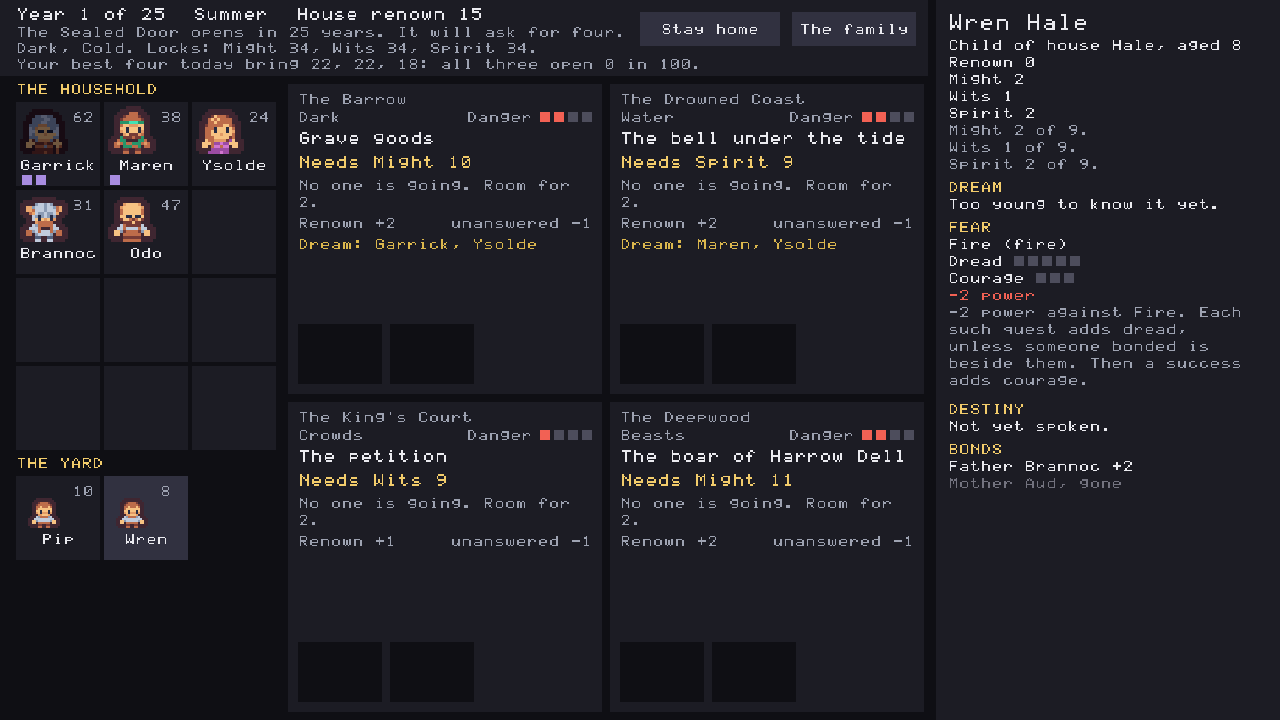
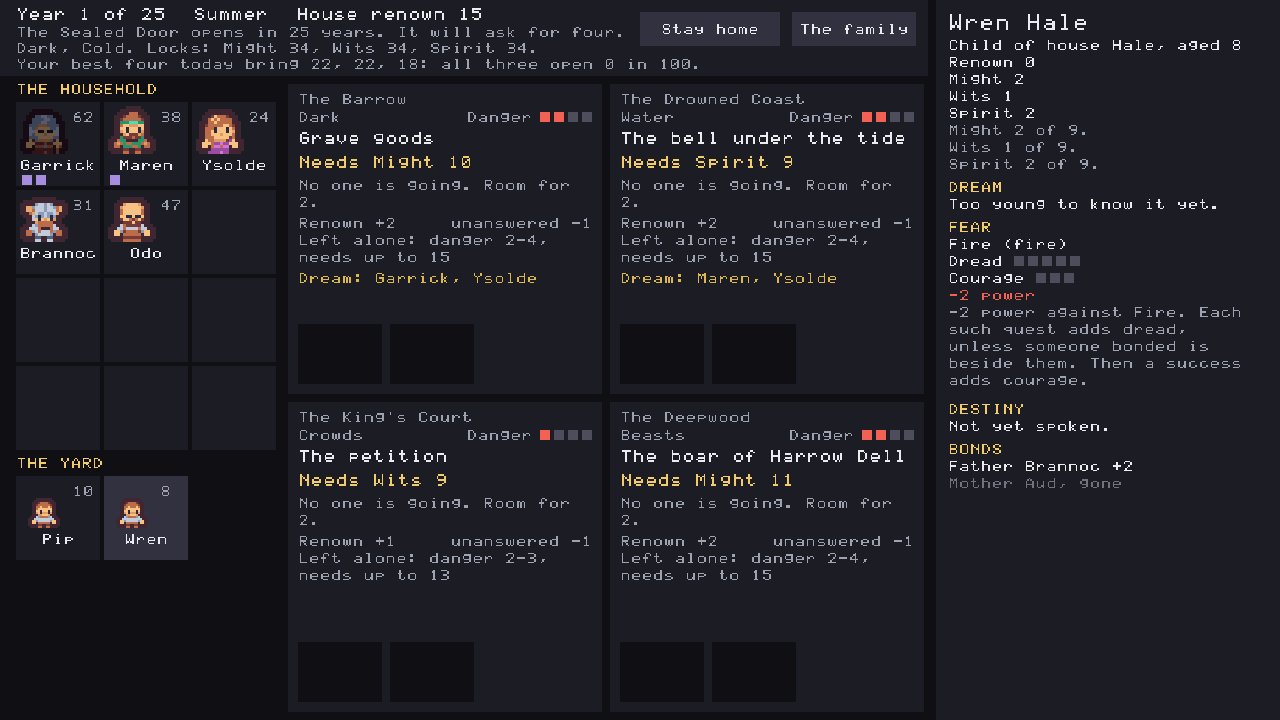
yakin(keifu-fixes): pictures re-taken, plus foresight and telegraph
Claude-Session: https://claude.ai/code/session_01NDjvEA2E8YNRhwA6ZsXpJu

diff --git a/games/keifu/src/capture.rs b/games/keifu/src/capture.rs
@@ -10,7 +10,8 @@
 //! previewing them both with his sheet in the dock; the quest sheet once both are
 //! seated; the staged worst case and its sheet. Then the sheet dock's own: idle,
 //! holding the help over year 1's full board, and Garrick's sheet scrolled to its end;
-//! and W5's staged ghost: "Lay Garrick's ghost" on a year-2 board. Then W6's telling:
+//! and W5's staged ghost: "Lay Garrick's ghost" on a year-2 board; then the foresight (the
+//! idle dock under year 1's seating) and the telegraph (a year-2 card and its sheet's end). Then W6's telling:
 //! the stay-home Meanwhile, a story half typed, the played page whole, a forging (the
 //! cradle-ring, with Garrick's sheet in the dock), and the closed house's verdict. Then
 //! W7's: Odo held over Pip's bench with the "+1 Spirit" preview, the played winter's
@@ -70,6 +71,8 @@ pub fn capture_all(checks: &mut Checks) -> Vec<String> {
         (&[][..], "keifu-dock-idle.png"),
         (&["Garrick", "end"][..], "keifu-dock-scrolled.png"),
         (&["w5-ghost"][..], "keifu-w5-ghost.png"),
+        (&["foresight"][..], "keifu-foresight.png"),
+        (&["telegraph"][..], "keifu-telegraph.png"),
         (&["w6-stay"][..], "keifu-w6-stay-home.png"),
         (&["w6-typing"][..], "keifu-w6-typing.png"),
         (&["w6-page"][..], "keifu-w6-page.png"),
@@ -205,6 +208,15 @@ pub fn capture_all(checks: &mut Checks) -> Vec<String> {
                 point_at(&mut sim, Target::Leaf(0), true);
             } else if *name == "w5-ghost" {
                 crate::w5::stage_ghost_board(&mut sim);
+            } else if *name == "foresight" {
+                // Garrick and Brannoc on Grave goods; the pointer at rest, so the dock is idle.
+                let _ = crate::w4::seat_the_oracle(&mut sim);
+                crate::verify::point(&mut sim, jidousha::prelude::Vec2::new(4.0, 700.0), false);
+            } else if *name == "telegraph" {
+                // Year 2, after a summer at home: a troubled card, and its sheet to its end.
+                crate::outlook_checks::stay_home_to_next_summer(&mut sim);
+                point_at(&mut sim, Target::Quest(0), false);
+                crate::verify::scroll_dock(&mut sim, -100.0);
             } else if *name == "q0" {
                 point_at(&mut sim, Target::Quest(0), false);
             } else if *name == "w4-sheet" {

diff --git a/games/keifu/src/outlook_checks.rs b/games/keifu/src/outlook_checks.rs
@@ -56,7 +56,7 @@ fn read_left_alone(card: &[String]) -> Option<(Span, i32)> {
 }
 
 /// Stay home, leave the telling and the winter: next summer's board is up.
-fn stay_home_to_next_summer(sim: &mut HeadlessSim) {
+pub fn stay_home_to_next_summer(sim: &mut HeadlessSim) {
     point_at(sim, Target::SetOut, true);
     point_at(sim, Target::GoOn, true);
     crate::w7::through_the_winter(sim);
